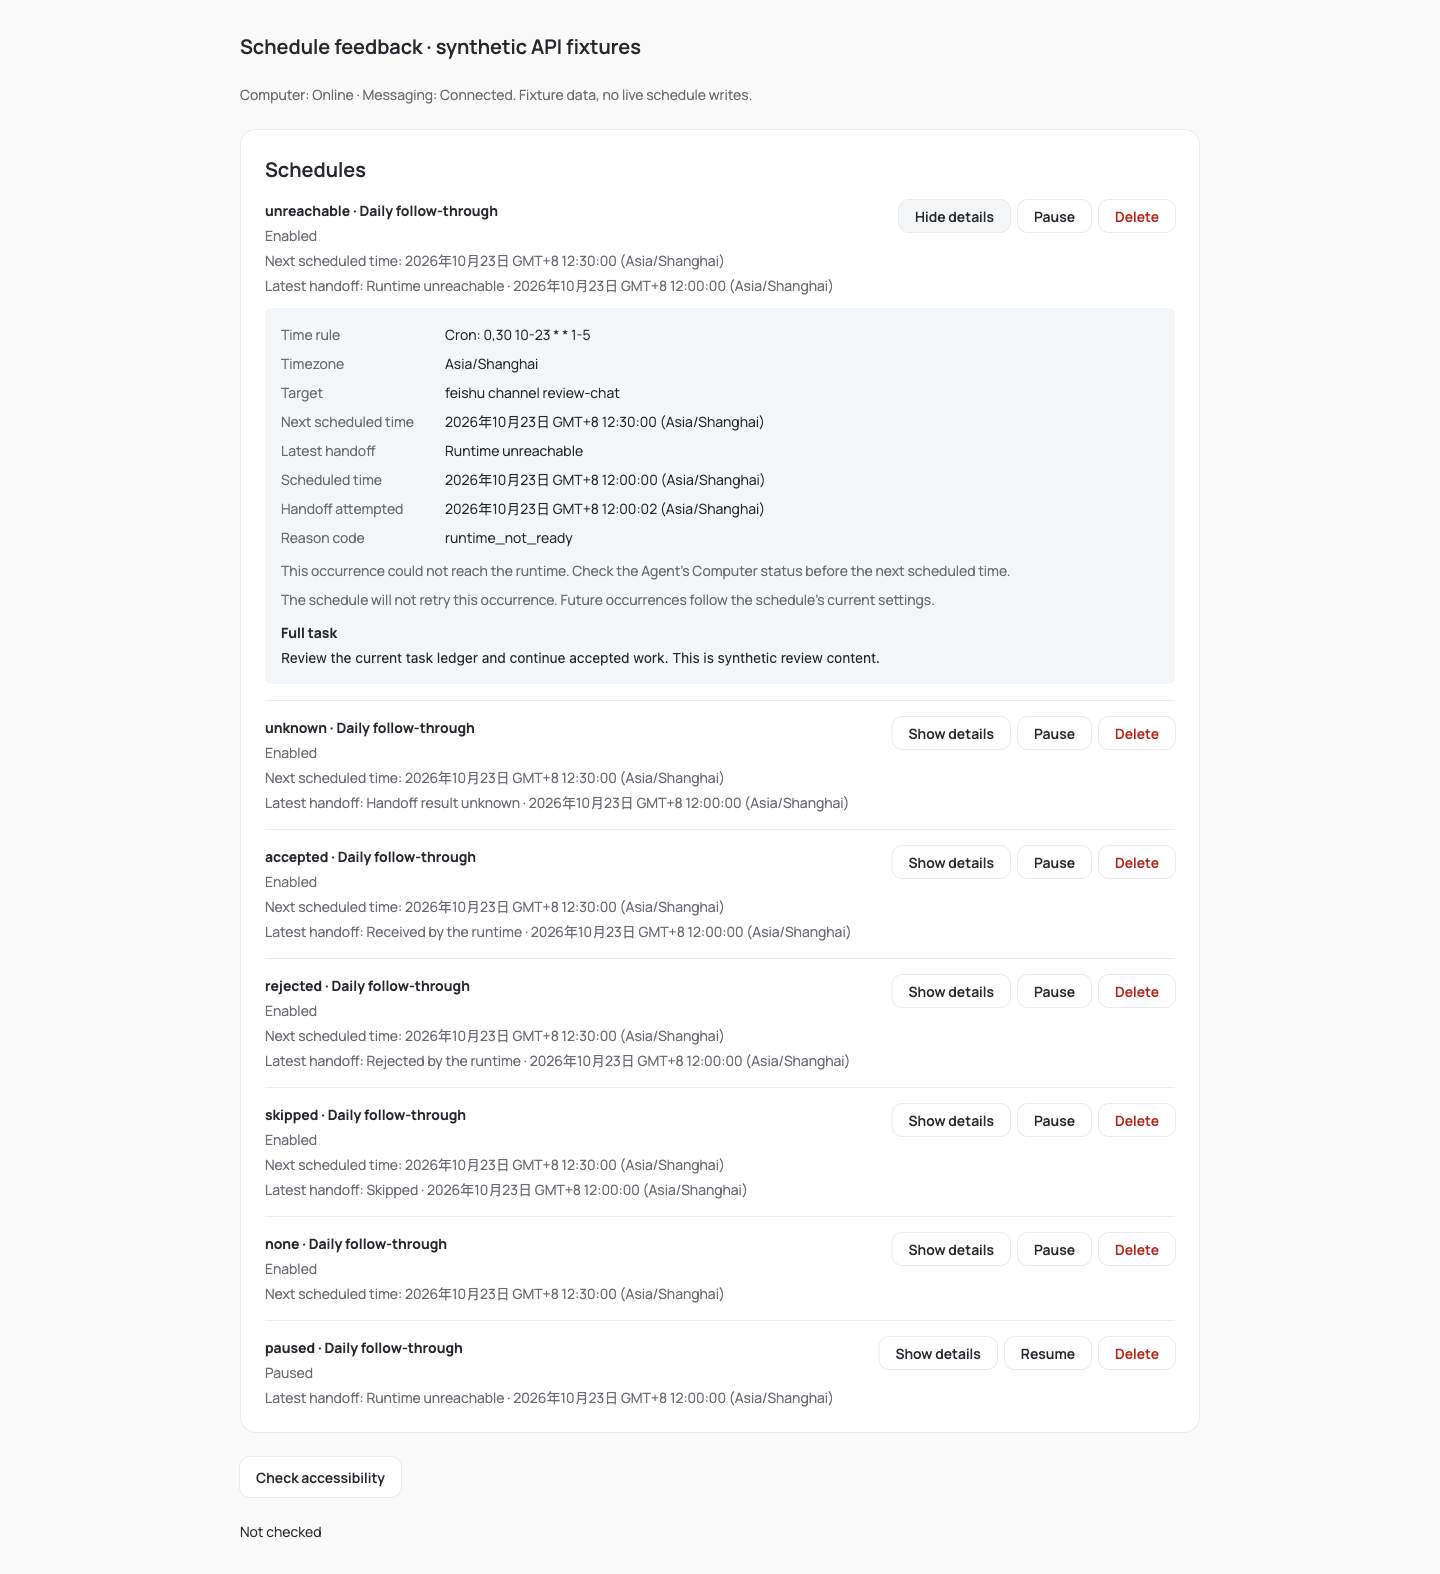
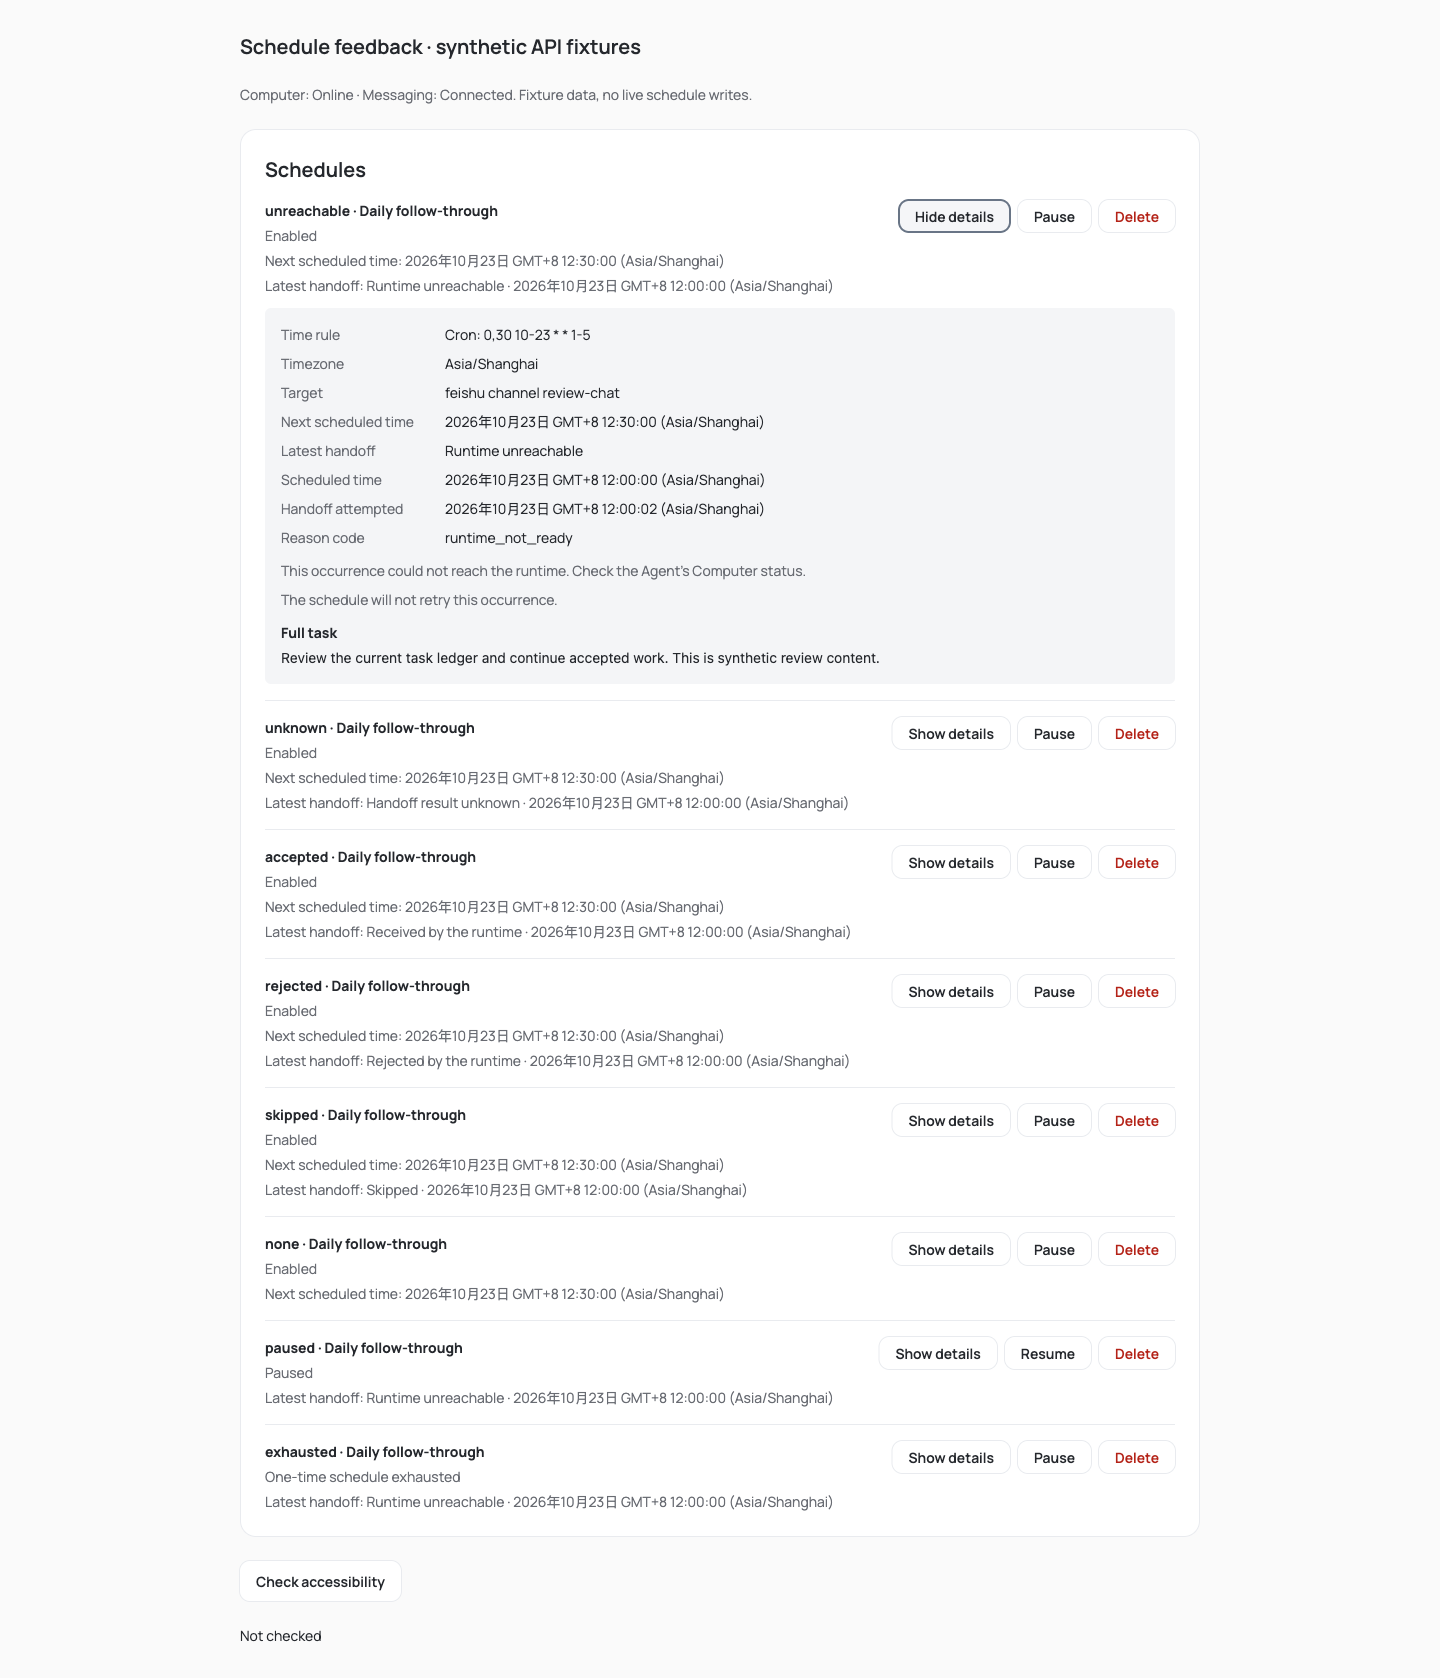
fix(web): clarify pending and exhausted schedule handoffs

diff --git a/apps/web/src/features/agents/agent-schedules-section.test.tsx b/apps/web/src/features/agents/agent-schedules-section.test.tsx
@@ -79,13 +79,13 @@ describe("AgentSchedulesSection", () => {
       "accepted",
       "The runtime received this occurrence. This does not confirm task completion; check Tasks for progress and results.",
     ],
-    [
-      "unreachable",
-      "This occurrence could not reach the runtime. Check the Agent’s Computer status before the next scheduled time.",
-    ],
+    ["unreachable", "This occurrence could not reach the runtime. Check the Agent’s Computer status."],
     ["rejected", "The runtime did not accept this occurrence. Check the reason code and the Agent’s Computer status."],
-    ["unknown", "The handoff could not be confirmed. The task may have started; check Tasks before starting it again."],
-    ["skipped", "This occurrence was skipped. Check the reason code below."],
+    [
+      "unknown",
+      "The handoff has not been confirmed yet. The task may have started; check Tasks before starting it again.",
+    ],
+    ["skipped", "This occurrence was skipped. See the reason code."],
   ] as const)("explains %s without claiming the business task completed", async (outcome, explanation) => {
     const item = schedule({
       lastDispatch: { scheduledFor: TIME, attemptedAt: TIME, messageId: null, outcome, code: "runtime_not_ready" },
@@ -98,12 +98,34 @@ describe("AgentSchedulesSection", () => {
     expect(await screen.findByText(explanation)).toBeTruthy();
     expect(screen.getByText("runtime_not_ready")).toBeTruthy();
     expect(screen.getByText("Next scheduled time", { exact: true })).toBeTruthy();
-    expect(
-      screen.queryByText(
-        "The schedule will not retry this occurrence. Future occurrences follow the schedule’s current settings.",
-      ) !== null,
-    ).toBe(outcome !== "accepted");
+    expect(screen.queryByText("The schedule will not retry this occurrence.") !== null).toBe(outcome !== "accepted");
   });
+
+  it.each(["unreachable", "rejected"] as const)(
+    "explains an exhausted one-time %s handoff without implying another occurrence",
+    async (outcome) => {
+      const item = schedule({
+        schedule: { kind: "at", at: TIME },
+        nextTriggerAt: null,
+        lastDispatch: { scheduledFor: TIME, attemptedAt: TIME, messageId: null, outcome, code: "runtime_not_ready" },
+      });
+      vi.spyOn(browserApi, "agentSchedules").mockResolvedValue({ items: [summaryOf(item)], nextCursor: null });
+      vi.spyOn(browserApi, "agentSchedule").mockResolvedValue(item);
+
+      mount();
+      expect(await screen.findByText("One-time schedule exhausted")).toBeTruthy();
+      expect(
+        screen.getByText(
+          `Latest handoff: ${outcome === "unreachable" ? "Runtime unreachable" : "Rejected by the runtime"}`,
+        ),
+      ).toBeTruthy();
+      expect(screen.queryByText("Enabled")).toBeNull();
+      fireEvent.click(screen.getByRole("button", { name: "Show details" }));
+      expect(await screen.findByText("The schedule will not retry this occurrence.")).toBeTruthy();
+      expect(screen.getByText("runtime_not_ready")).toBeTruthy();
+      expect(screen.queryByText(/before the next scheduled time|Future occurrences/)).toBeNull();
+    },
+  );
 
   it("keeps a past failed handoff visible when the schedule is paused", async () => {
     const item = schedule({

diff --git a/testing/web-ui/schedule-handoff-feedback/README.md b/testing/web-ui/schedule-handoff-feedback/README.md
@@ -10,7 +10,8 @@ line is illustrative, not evidence about a real Computer or Messaging connection
 - Collapsed rows expose the latest handoff outcome and its scheduled time independently of Enabled/Paused.
 - Details retain the reason code and next scheduled time and explain the recorded handoff.
 - Accepted means runtime receipt, not business completion. Unknown warns that work may already have started.
-- Failed/unknown/skipped occurrences explain that the schedule will not retry them; future occurrences follow current settings.
+- Failed/unknown/skipped occurrences explain that the schedule will not retry them without implying a future occurrence.
+- Unknown also covers a handoff still in flight; its explanation uses neutral "not confirmed yet" wording.
 - Paused schedules retain the historical outcome and omit a nonexistent next trigger.
 - Schedules without a handoff retain their existing empty-history behavior.
 - The full task stays behind the detail read; the list does not request it.
@@ -19,7 +20,8 @@ line is illustrative, not evidence about a real Computer or Messaging connection
 
 Both English and Chinese passed at 320, 390, 768, and 1440 CSS pixels (1000px viewport height).
 For every locale/width combination, details were opened for unreachable, unknown, accepted,
-rejected, skipped, no-history, and paused fixtures.
+rejected, skipped, no-history, paused, and exhausted one-time fixtures. The exhausted fixture remains enabled,
+has no next trigger, and retains the latest unreachable handoff without promising another occurrence.
 
 | Check | Result |
 | --- | --- |
@@ -27,7 +29,7 @@ rejected, skipped, no-history, and paused fixtures.
 | Tab then Enter expands the first schedule | Passed at all eight locale/width combinations |
 | Space collapses it and updates `aria-expanded` | Passed at all eight combinations |
 | Keyboard focus remains on the trigger with visible focus | Passed at all eight combinations |
-| axe-core 4.13.0: wcag2a, wcag2aa, wcag21aa, wcag22aa | Zero violations in each of the seven expanded states at all eight combinations |
+| axe-core 4.13.0: wcag2a, wcag2aa, wcag21aa, wcag22aa | Zero violations in each of the eight expanded states at all eight combinations |
 | State interpretation | Text labels and timestamps remain available without relying on color |
 | Chinese terminology correction | Regenerated, rebuilt, and rechecked all four Chinese widths and seven states |
 
@@ -37,17 +39,19 @@ Screenshots:
 - [Desktop failed handoff details](en-1440-expanded.png)
 - [Unknown handoff details](en-unknown-expanded.png)
 - [Accepted handoff details](en-accepted-expanded.png)
+- [Exhausted one-time handoff details](en-exhausted-expanded.png)
+- [Chinese exhausted one-time handoff, 390px](zh-390-exhausted.png)
 - [Chinese mobile details, 390px](zh-390-expanded.png)
 - [Chinese minimum width with keyboard focus, 320px](zh-320-keyboard.png)
 
 ## Local checks and limits
 
-Reused the completed 15-test component run, Web type check, and repository checks from the same
-worktree; the recovered command outputs confirmed successful exits. The new assertions first
-failed against the original component (11 failures), then all 15 tests passed with the change.
-The subsequent edit only aligned two Chinese messages with the repository glossary.
-Paraglide compilation and the production Web build passed after that edit. Repository checks
-run again before committing the acceptance artifacts. Existing Biome warnings and Vite
+The focused component suite passes all 17 tests, including exhausted one-time unreachable/rejected
+handoffs. The original assertions first failed against the original component (11 failures), then
+passed with the implementation. Review feedback corrected the skipped direction word, neutralized
+unknown wording, and removed references to nonexistent future triggers.
+Web type checking, Paraglide compilation, and the production Web build passed after those edits.
+Repository checks run before committing the acceptance artifacts. Existing Biome warnings and Vite
 shared-package browser-externalization/chunk-size warnings remain non-blocking.
 
 The affected behavior is confined to one Web component and its messages. Server/database,

diff --git a/docs/system/web/web-ui-contract.md b/docs/system/web/web-ui-contract.md
@@ -282,10 +282,11 @@ without opening the full task. The list uses its existing summary fields and doe
 until details are opened.
 
 Details explain the recorded outcome and retain its reason code and next scheduled time. An accepted handoff
-confirms runtime receipt, never task completion. An unknown handoff may already have started work; users check
+confirms runtime receipt, never task completion. An unknown handoff may still be in flight or may already have started work; users check
 Tasks before starting it again. Unreachable and rejected handoffs direct users to the Agent's Computer status,
 without diagnosing the cause from current presence. Skipped occurrences retain their reason code. The schedule
-does not retry an occurrence; future occurrences follow the current enabled state and time rule. These messages
+does not retry an occurrence. Explanations do not imply a future occurrence when the next trigger is absent;
+future occurrences, when present, follow the current enabled state and time rule. These messages
 do not introduce retries, execution history, or a separate task lifecycle.
 
 ## Internationalization and copy
